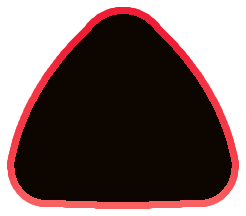
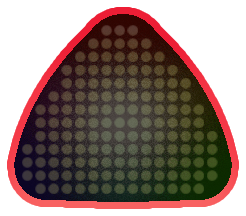
a
a

diff --git a/index.html b/index.html
@@ -51,7 +51,7 @@
     <br/>
     <div>
         <img src="faces/puzzlesOff.png" style="margin-right: 13.1cm; width:10cm; position:relative; top: -20px" onmouseover="this.src='faces/puzzlesOn.png';" onmouseout="this.src='faces/puzzlesOff.png';"/>
-        <img src="faces/tennaOff.png" style="width: 10cm;" onmouseover="this.src='faces/tennaOn.png';" onmouseout="this.src='faces/tennaOff.png';"/>
+        <a href="tenna.html"><img src="faces/tennaOff.png" style="width: 10cm;" onmouseover="this.src='faces/tennaOn.png';" onmouseout="this.src='faces/tennaOff.png';"/></a>
     </div>
     <br/>
     <div>
@@ -81,7 +81,7 @@
     <br/>
     <div>
         <img src="faces/yesmanOff.png" style="margin-right: 15.1cm; width:8cm;" onmouseover="this.src='faces/yesmanOn.png';" onmouseout="this.src='faces/yesmanOff.png';"/>
-        <img src="faces/idiotOff.png" style="width: 8cm;" onmouseover="this.src='faces/idiotOn.png';" onmouseout="this.src='faces/idiotOff.png';"/>
+        <a href="idiot.html"><img src="faces/idiotOff.png" style="width: 8cm;" onmouseover="this.src='faces/idiotOn.png';" onmouseout="this.src='faces/idiotOff.png';"/></a>
     </div>
 </body>
 </html>

diff --git a/idiot.html b/idiot.html
@@ -1,0 +1,21 @@
+<!DOCTYPE html>
+<html lang="en">
+<head>
+    <meta charset="UTF-8">
+    <meta name="viewport" content="width=device-width, initial-scale=1.0">
+    <title>CorrupTee</title>
+    <link rel="stylesheet" href="stylesheet.css"/>
+</head>
+<body>
+    <a href="index.html"><p style="text-align: left; font-size: 100px; color: darkviolet;">⌂</p></a>
+    <img src="images/idiotPic.png" style="width: 20cm;"/>
+    <p>CorrupTee leaning and posing for the camera.</p>
+    <div style="margin-bottom: 4cm;"></div>
+
+    <p>CorrupTee. Formerly a robot servant, due to a malfunction gained sentience.</p>
+    <p>His appearance is mostly show, as none of it is genuine corruption and is completely harmless.</p>
+    <p>Despite that he attempts to be seen as menacing, often acting rude or mean to others.</p>
+    <br/>
+    <p>Believe it or not he's actually very nice once you get to know him. -Manatee</p>
+</body>
+</html>

diff --git a/tenna.html b/tenna.html
@@ -1,0 +1,21 @@
+<!DOCTYPE html>
+<html lang="en">
+<head>
+    <meta charset="UTF-8">
+    <meta name="viewport" content="width=device-width, initial-scale=1.0">
+    <title>Tenna</title>
+    <link rel="stylesheet" href="stylesheet.css"/>
+</head>
+<body>
+    <a href="index.html"><p style="text-align: left; font-size: 100px; color: darkviolet;">⌂</p></a>
+    <img src="images/tennaPic.png" style="width: 20cm;"/>
+    <p>.</p>
+    <div style="margin-bottom: 4cm;"></div>
+
+    <p>Mr Ant Tenna Dremmur. Previously a beloved home television, now a scrapped appliance from the dremmur's home.</p>
+    <br/>
+    <p>They didn't even care for it. -Mt</p>
+    <br/>
+    <p>One of our wonderful game show hosts who hates the feeling of being lonely has now found many friends and fans to never feel lonely again.</p>
+</body>
+</html>

diff --git a/percy.html b/percy.html
@@ -9,7 +9,15 @@
 <body>
     <a href="index.html"><p style="text-align: left; font-size: 100px; color: darkviolet;">⌂</p></a>
     <img src="images/percyPic.png" style="width: 20cm;"/>
-    <p>.</p>
+    <p>Percy on the game table.</p>
     <div style="margin-bottom: 4cm;"></div>
+
+    <p>Pal Percy. A handheld digital companion or virtual pet that got recalled for being too dangerous.</p>
+    <p>This one was found in the ruins of an old theme restaurant for kids. </p>
+    <br/>
+    <p>The battery compartment had battery acid corrosion, fixed with a q-tip and some vinegar -Manatee</p>
+    <br/>
+    <p>Once recovered, was extremely energetic and chaotic, often claiming to be everyone's best pal.</p> 
+    <p>They don't get along with some of our companions but managed to make some friends.</p>
 </body>
 </html>
